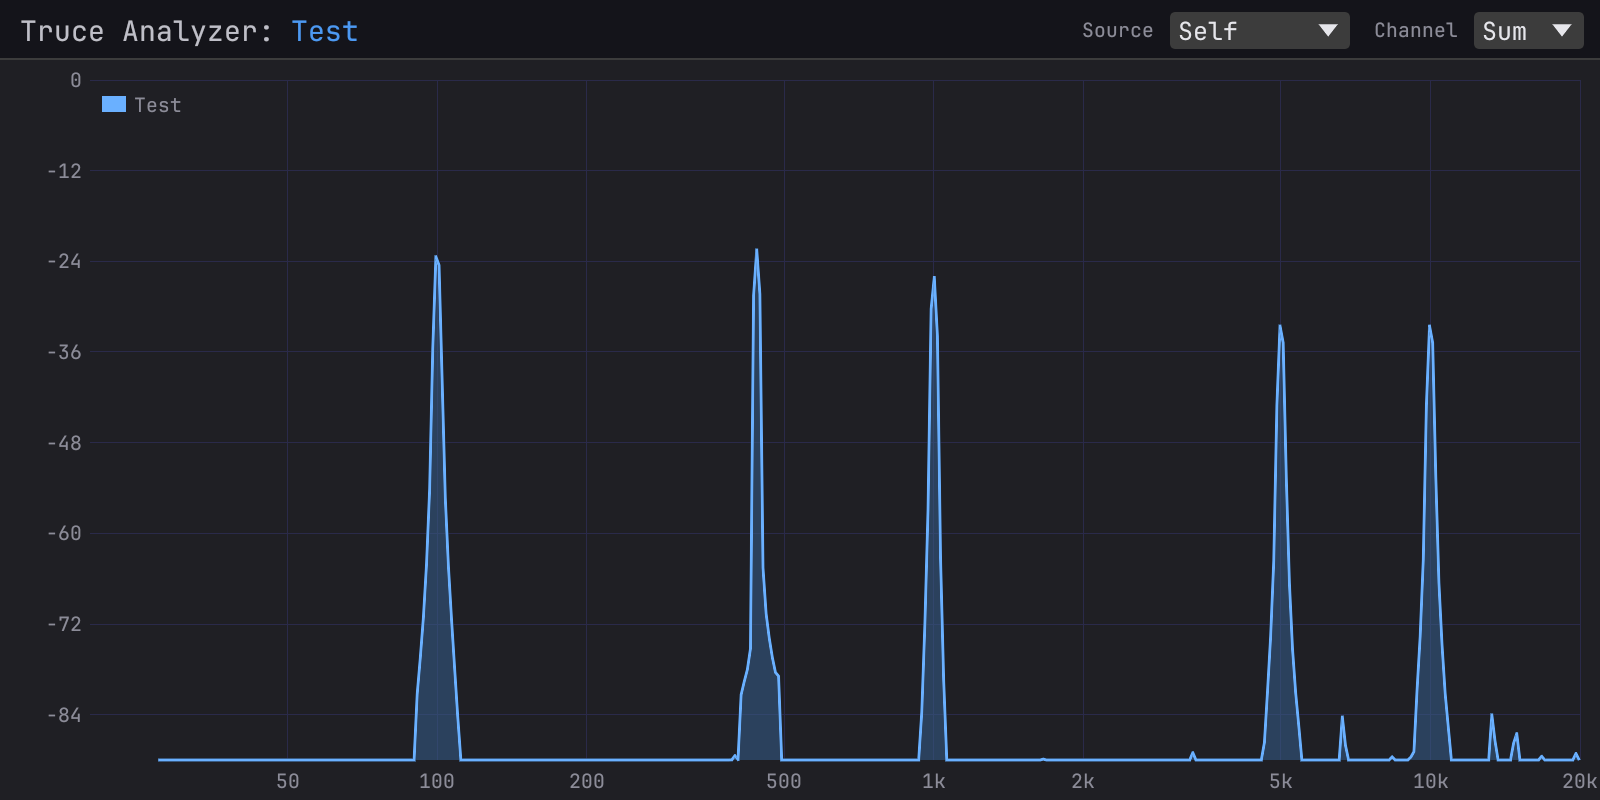
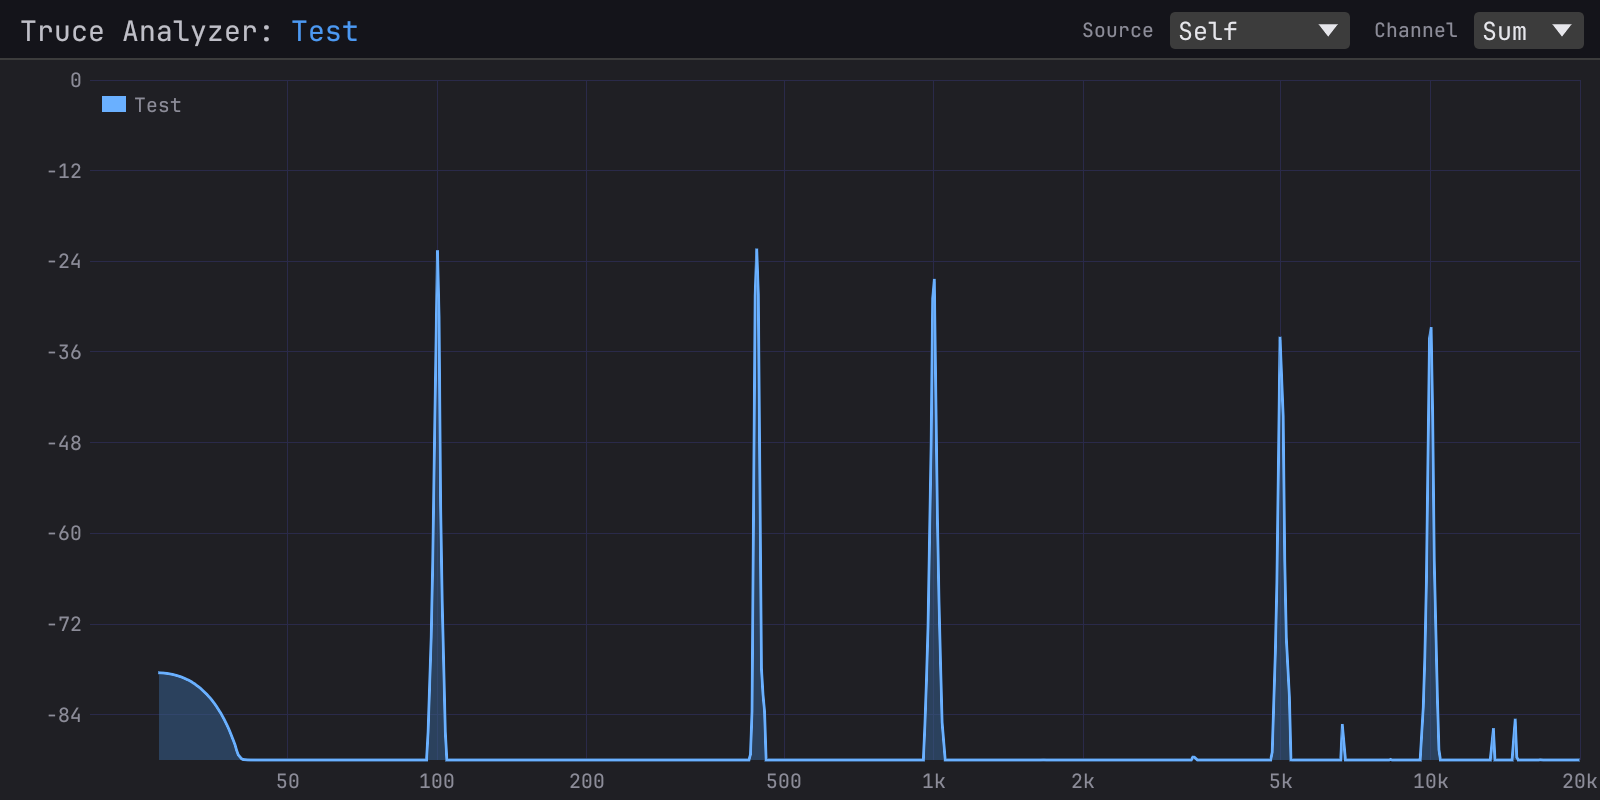
double number of bins per octave, reduce smoothing, regenerate screenshot

diff --git a/src/core.rs b/src/core.rs
@@ -11,7 +11,7 @@ use rustfft::{Fft, FftPlanner};
 // CQT parameters
 // ---------------------------------------------------------------------------
 
-pub const BINS_PER_OCTAVE: usize = 48;
+pub const BINS_PER_OCTAVE: usize = 96;
 pub const CQT_F_MIN: f32 = 27.5; // A0
 pub const CQT_F_MAX: f32 = 20480.0;
 
@@ -20,8 +20,8 @@ pub const DB_CEIL: f32 = 0.0;
 pub const FREQ_MIN: f32 = 20.0; // display range lower bound
 pub const FREQ_MAX: f32 = 20_000.0;
 
-const SMOOTH_UP: f32 = 0.4;
-const SMOOTH_DOWN: f32 = 0.8;
+const SMOOTH_UP: f32 = 0.9;
+const SMOOTH_DOWN: f32 = 0.9;
 const HOP_SIZE: usize = 2048;
 const KERNEL_SPARSITY_THRESHOLD: f32 = 0.001;
 
